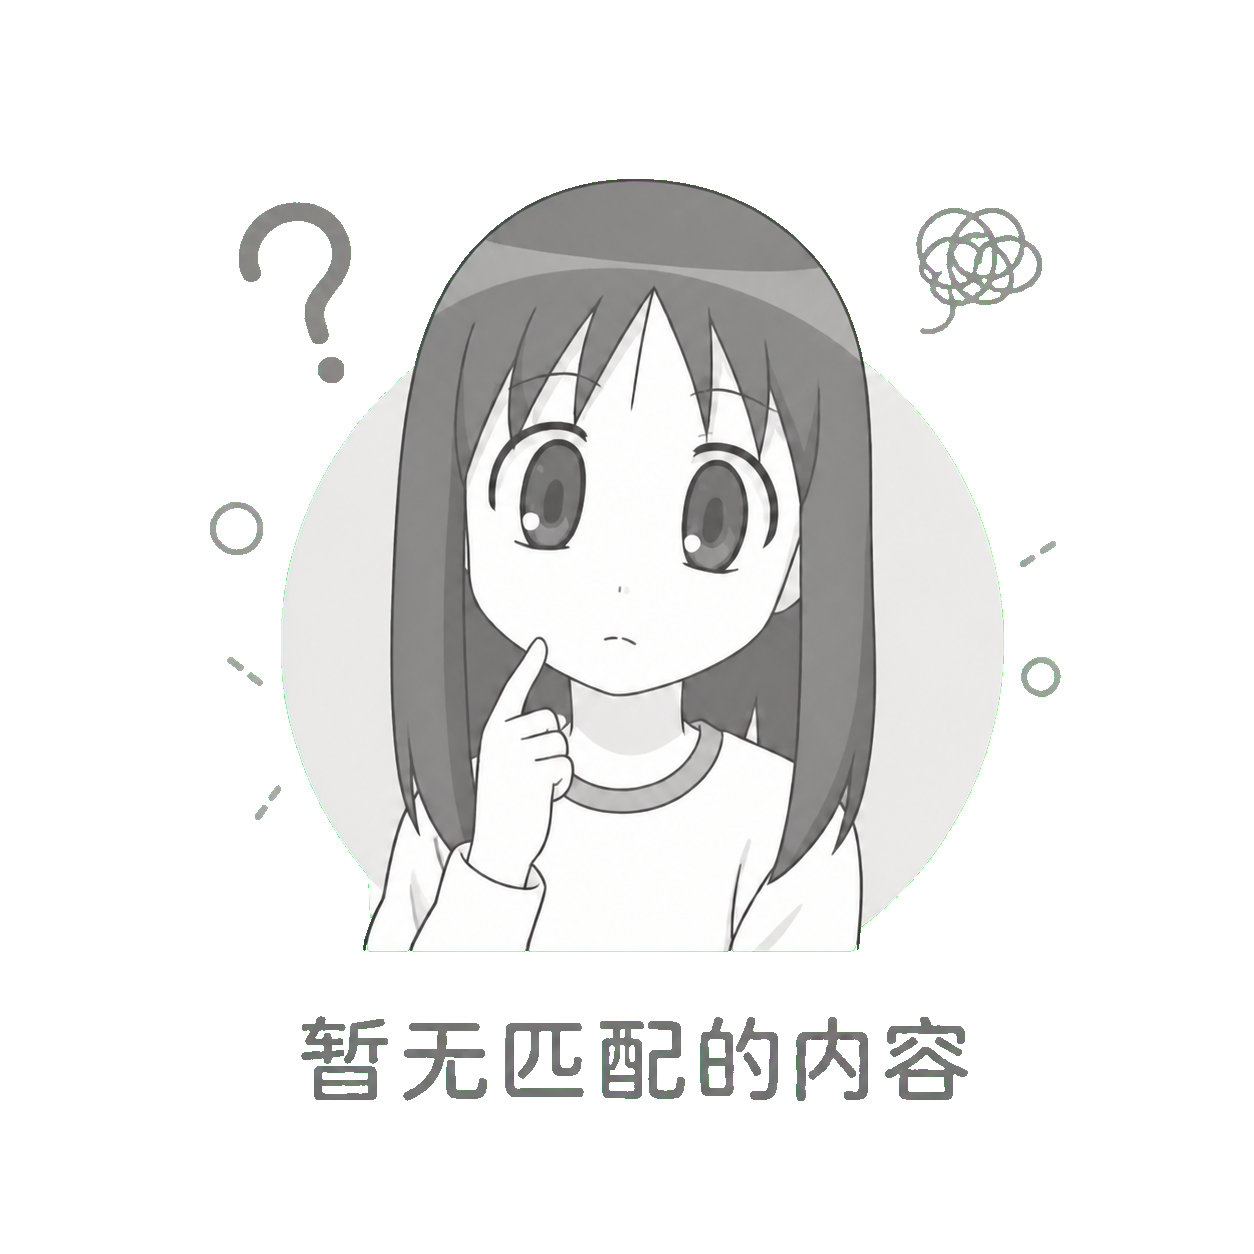
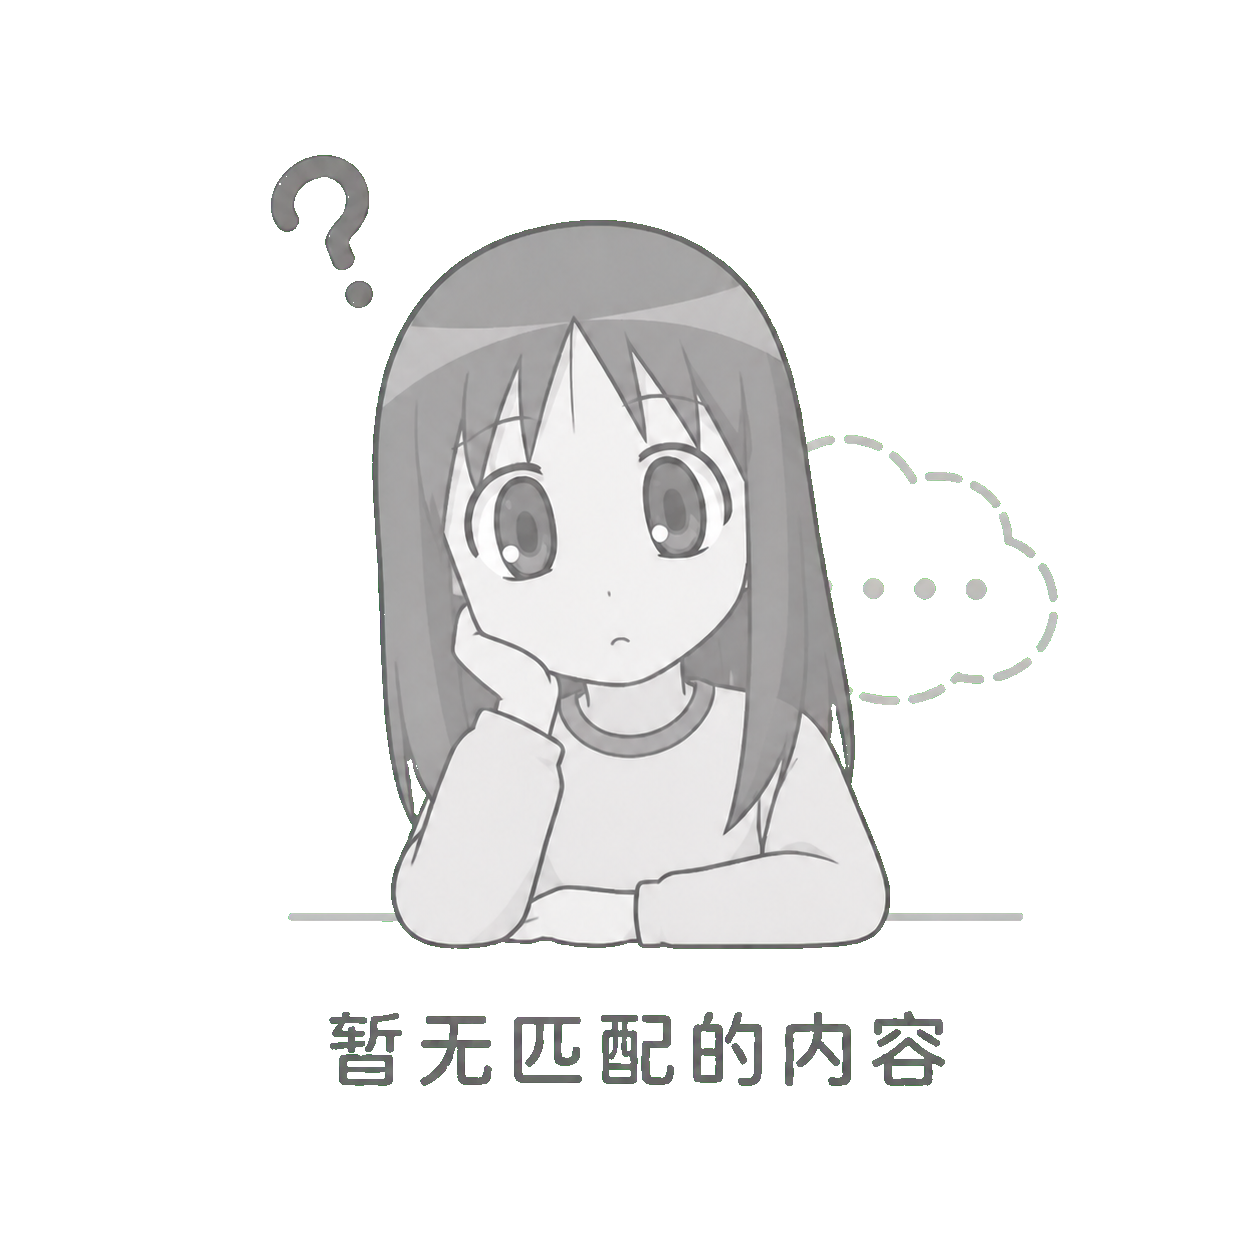
chore: update img resource

diff --git a/docs/.vitepress/theme/components/ThemeSwitcher.vue b/docs/.vitepress/theme/components/ThemeSwitcher.vue
@@ -66,11 +66,7 @@ const activeTheme = computed(
           "
         >
           <div class="flex items-center gap-3">
-            <component
-              :is="theme.icon"
-              class="h-4 w-4"
-              :style="theme.id === 'dark' ? {} : { color: theme.color }"
-            />
+            <component :is="theme.icon" class="h-4 w-4" />
             {{ theme.name }}
           </div>
           <i-ph-check-bold class="h-4 w-4" v-if="currentTheme === theme.id" />

diff --git a/docs/.vitepress/theme/components/StudioView.vue b/docs/.vitepress/theme/components/StudioView.vue
@@ -1,7 +1,9 @@
+<script setup lang="ts">
+import Developing from "./items/Developing.vue";
+</script>
+
 <template>
   <div class="min-h-[160vh]">
-    <div class="flex items-center justify-center">
-      <h2 class="text-2xl font-bold text-main">正在施工中......</h2>
-    </div>
+    <Developing />
   </div>
 </template>

diff --git a/docs/.vitepress/theme/components/items/Developing.vue b/docs/.vitepress/theme/components/items/Developing.vue
@@ -1,0 +1,5 @@
+<template>
+  <div class="flex h-full w-full items-center justify-center">
+    <img src="/developing.png" class="h-64 w-64 opacity-80" />
+  </div>
+</template>
